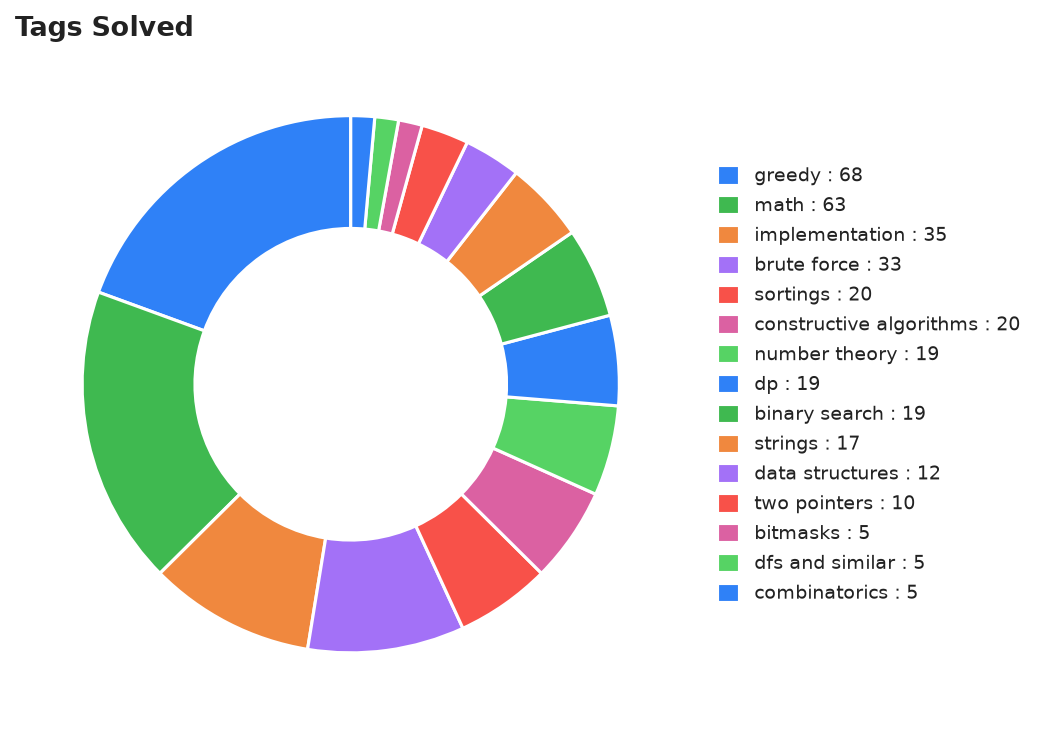
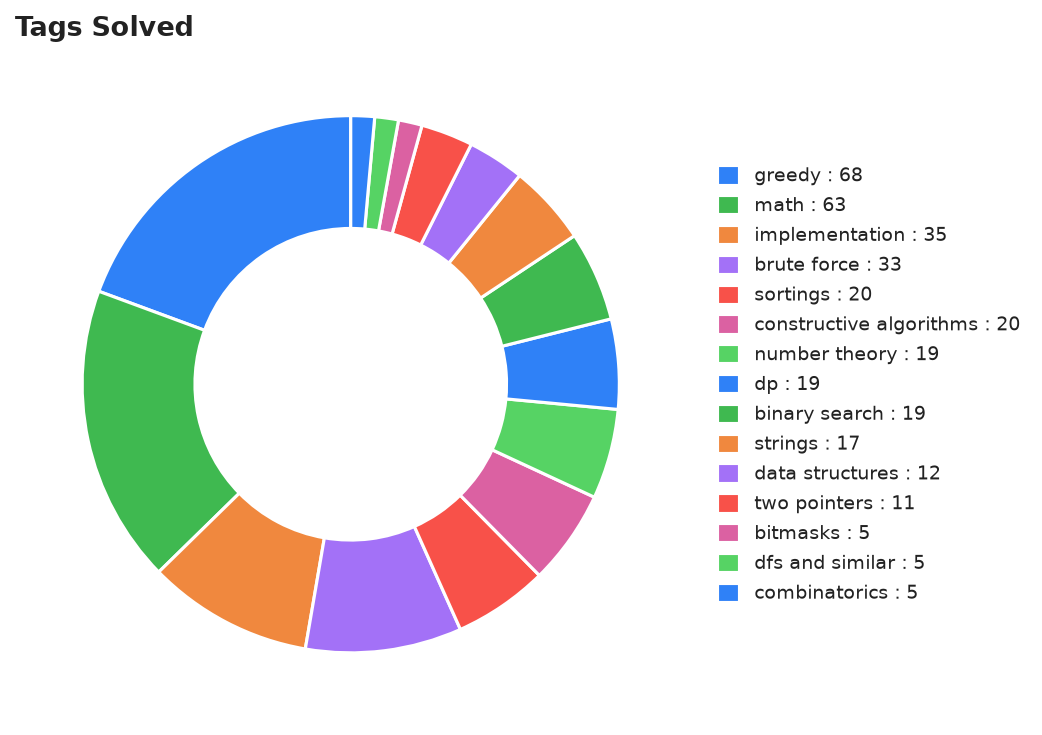
Sync: refresh analytics (rating/streak update, no new problems)

diff --git a/README.md b/README.md
@@ -65,7 +65,7 @@ Auto-generated archive of accepted Codeforces submissions for **[om_sharma_](htt
 | `binary search` | 19 |
 | `strings` | 17 |
 | `data structures` | 12 |
-| `two pointers` | 10 |
+| `two pointers` | 11 |
 | `bitmasks` | 5 |
 | `dfs and similar` | 5 |
 | `combinatorics` | 5 |
@@ -89,7 +89,7 @@ Auto-generated archive of accepted Codeforces submissions for **[om_sharma_](htt
 |---|---|---|---|---|---|
 | 2257A | [Creating Abbreviations](problems/brute-force/Unrated_2257A-Creating-Abbreviations) | ? | `brute force`, `strings` | — | [CF](https://codeforces.com/contest/2257/problem/A) |
 | 2257B | [Gigantomachy](problems/math/Unrated_2257B-Gigantomachy) | ? | `math` | — | [CF](https://codeforces.com/contest/2257/problem/B) |
-| 2257D | [Bermuda Rectangle](problems/binary-search/Unrated_2257D-Bermuda-Rectangle) | ? | `binary search`, `math`, `number theory` | — | [CF](https://codeforces.com/contest/2257/problem/D) |
+| 2257D | [Bermuda Rectangle](problems/binary-search/Unrated_2257D-Bermuda-Rectangle) | ? | `binary search`, `math`, `number theory`, `two pointers` | — | [CF](https://codeforces.com/contest/2257/problem/D) |
 | 4A | [Watermelon](problems/brute-force/0800_4A-Watermelon) | 800 | `brute force`, `math` | — | [CF](https://codeforces.com/contest/4/problem/A) |
 | 71A | [Way Too Long Words](problems/strings/0800_71A-Way-Too-Long-Words) | 800 | `strings` | — | [CF](https://codeforces.com/contest/71/problem/A) |
 | 231A | [Team](problems/brute-force/0800_231A-Team) | 800 | `brute force`, `greedy` | — | [CF](https://codeforces.com/contest/231/problem/A) |
